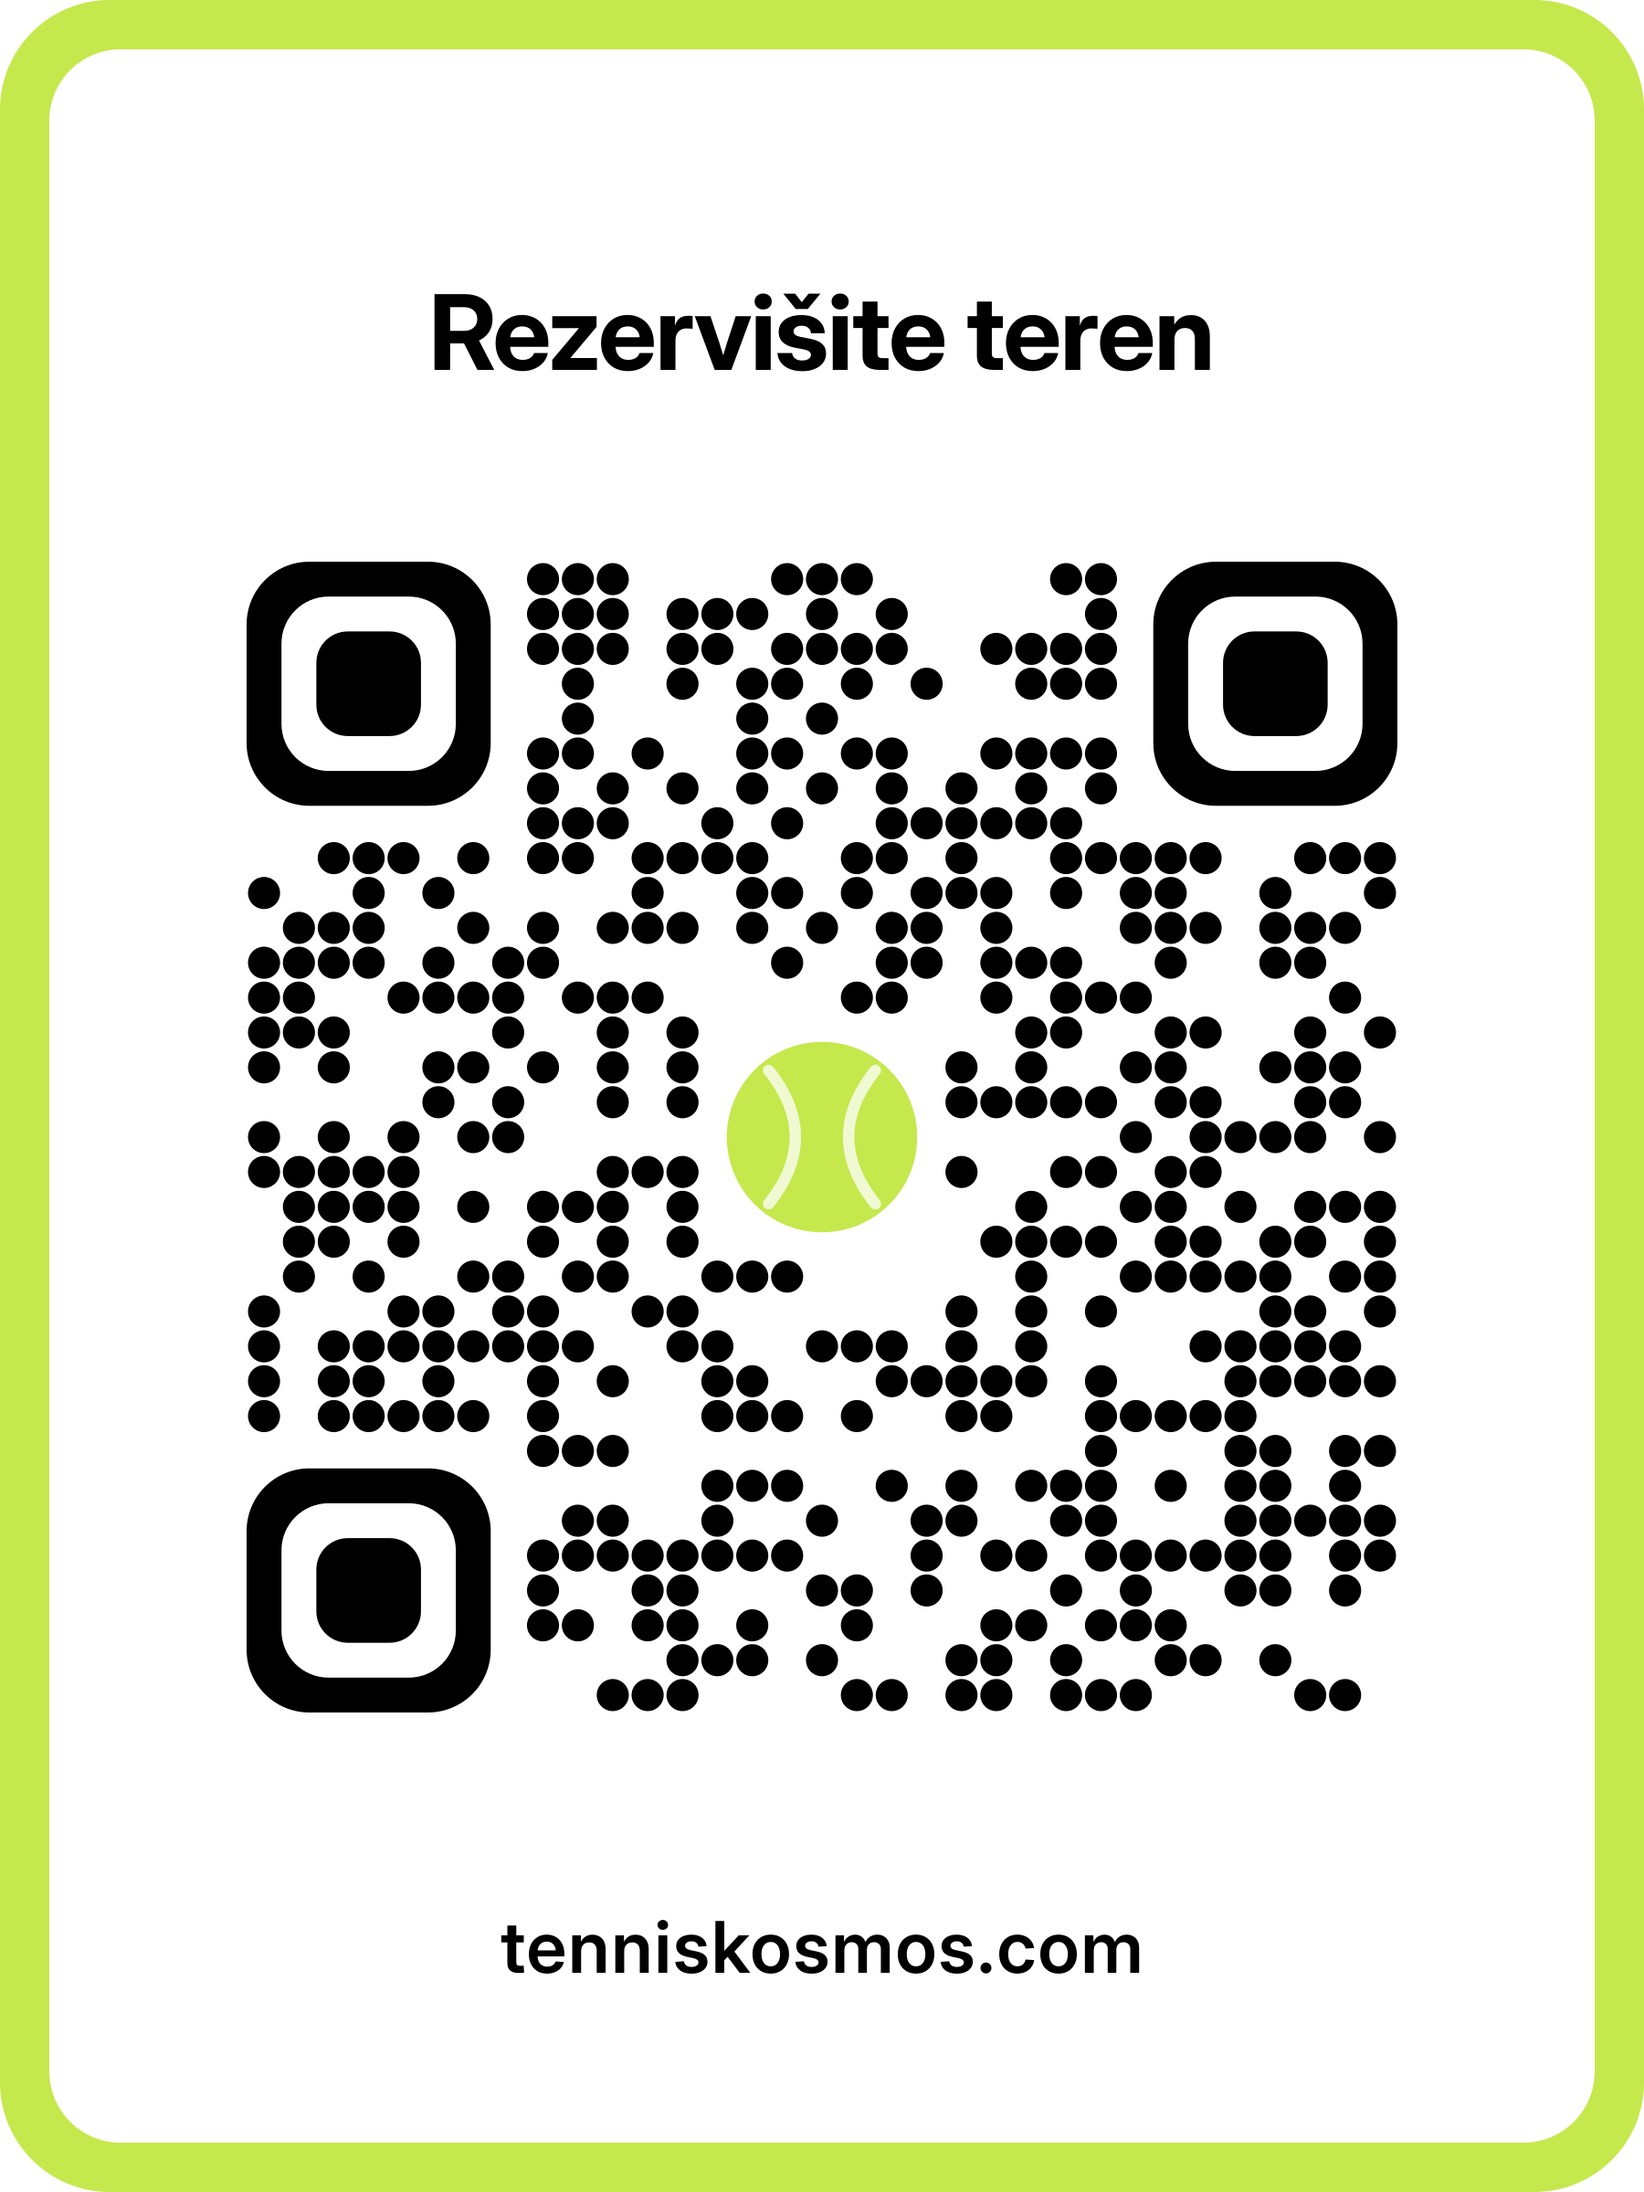
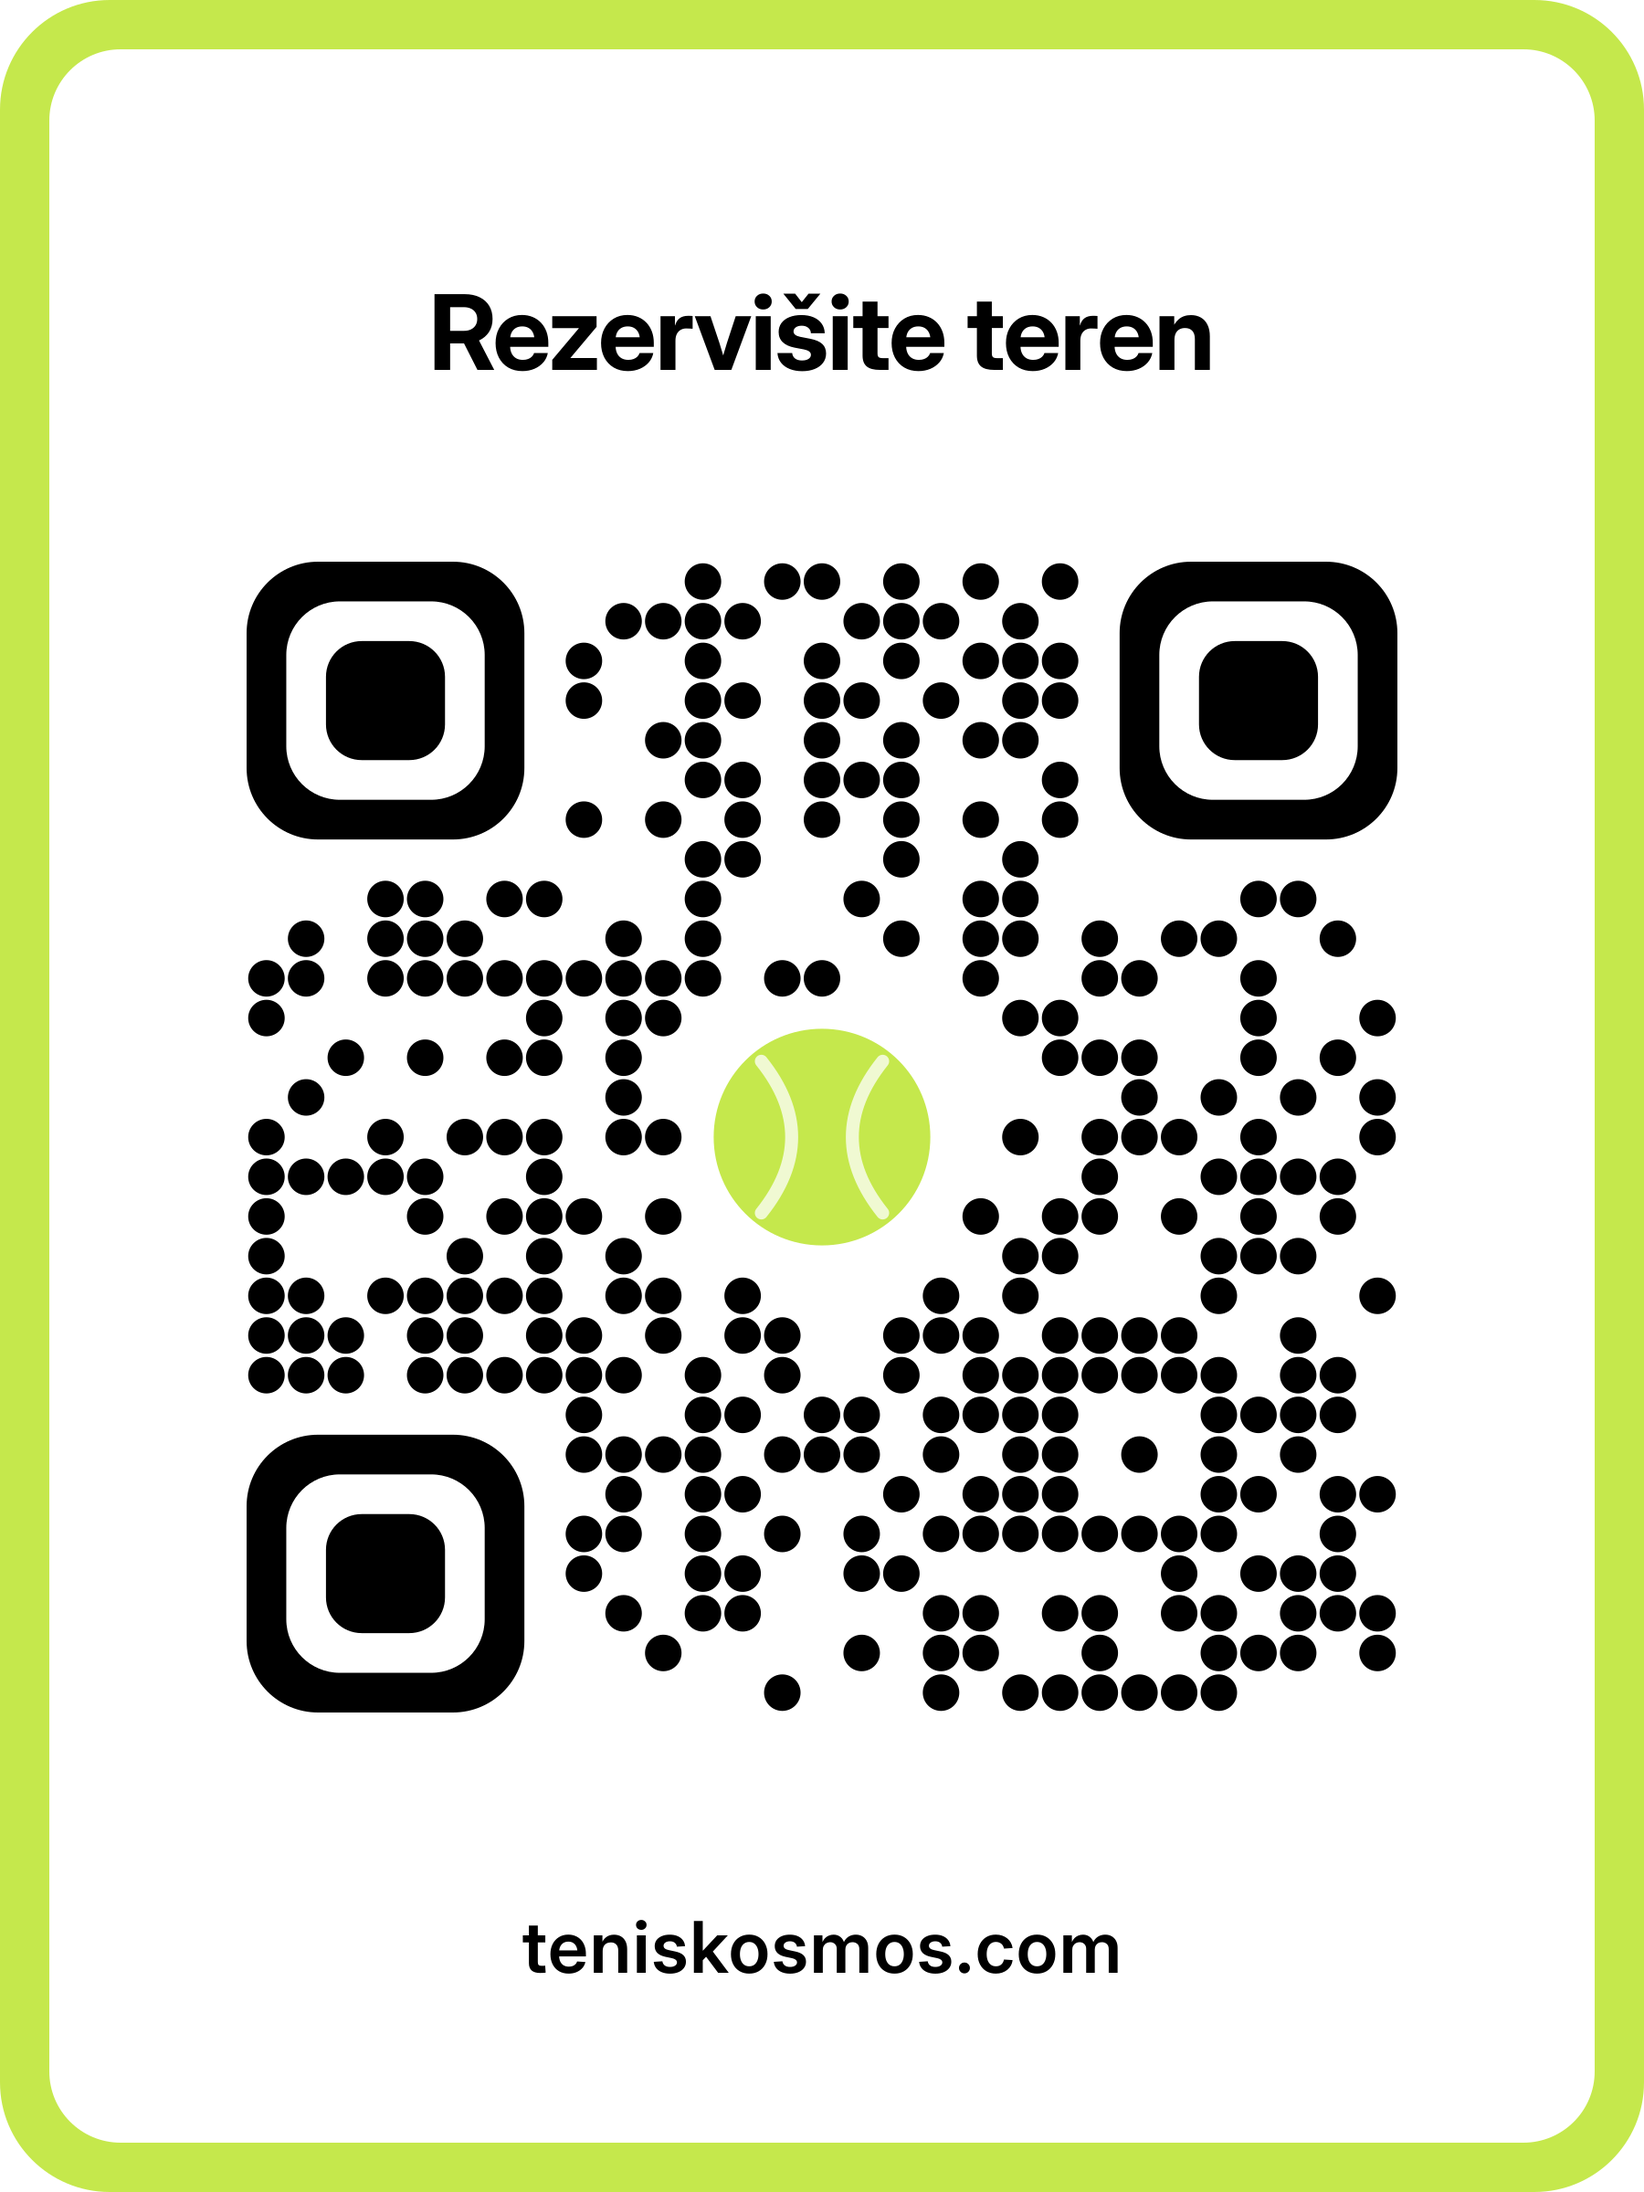
Regenerate QR poster for teniskosmos.com and commit build script
The canonical domain is teniskosmos.com (single 'n', Serbian spelling);
the previously-pushed PNG encoded the misspelling-fallback URL. Also
checks in build_qr_poster.py so future domain/wording tweaks are a
one-command regeneration instead of recreating the script each time.

Changed region(s): [[0.1244, 0.25, 0.8711, 0.7812], [0.3111, 0.875, 0.7156, 0.9062]]

diff --git a/build_qr_poster.py b/build_qr_poster.py
@@ -1,0 +1,143 @@
+#!/usr/bin/env python3
+"""Generate the printable "Rezervišite teren" QR poster.
+
+Output:  qr-option-2-yellow.png  (1800×2400, placed next to this script)
+
+Deps:    qrencode, rsvg-convert  (apt install qrencode librsvg2-bin)
+         Python 3 stdlib only.
+
+Verify scan:  zbarimg --quiet qr-option-2-yellow.png
+
+Style decisions are documented in CLAUDE.md ("Visual design rules").
+The central tennis ball uses the exact SVG the site uses in index.html.
+QR error-correction level H (30%) absorbs the center knockout.
+"""
+import re
+import subprocess
+import tempfile
+from pathlib import Path
+
+URL = "https://teniskosmos.com/"           # canonical domain (Serbian spelling, single 'n')
+URL_LABEL = "teniskosmos.com"
+HEADLINE = "Rezervišite teren"
+
+HERE = Path(__file__).resolve().parent
+OUT_PNG = HERE / "qr-option-2-yellow.png"
+
+# --- Generate raw QR SVG via qrencode ---------------------------------------
+with tempfile.TemporaryDirectory() as tmp:
+    tmp = Path(tmp)
+    raw_svg = tmp / "qr.svg"
+    subprocess.check_call(["qrencode", "-t", "SVG", "-l", "H", "-m", "0", "-o", str(raw_svg), URL])
+    src = raw_svg.read_text()
+    rects_raw = re.search(r'<g id="Pattern"[^>]*>(.*?)</g>', src, re.S).group(1)
+    GRID = int(re.search(r'viewBox="0 0 (\d+) (\d+)"', src).group(1))
+
+    # Parse module grid into a 2D bitmap
+    grid = [[0] * GRID for _ in range(GRID)]
+    for m in re.finditer(r'<rect x="(\d+)" y="(\d+)" width="1" height="1"', rects_raw):
+        x, y = int(m.group(1)), int(m.group(2))
+        grid[y][x] = 1
+
+    # --- Poster layout constants --------------------------------------------
+    W, H = 600, 800
+    QR_SIZE = 420
+    QR_X = (W - QR_SIZE) // 2
+    QR_Y = 205                          # tuned so top/bottom gaps are visually balanced
+    MODULE = QR_SIZE / GRID
+
+    BALL_MODULES = 7                    # center knockout: ~21% of grid (safe at level H)
+    BALL_PX = BALL_MODULES * MODULE
+    BALL_SIZE = BALL_PX * 0.78          # ball sits inside knockout with whitespace ring
+    CX_MOD_LO = (GRID - BALL_MODULES) // 2
+    CX_MOD_HI = CX_MOD_LO + BALL_MODULES
+    CX = QR_X + QR_SIZE / 2
+    CY = QR_Y + QR_SIZE / 2
+
+    def in_finder(r, c):
+        """True if module (r,c) belongs to one of the three corner finder patterns."""
+        return (r < 7 and c < 7) or (r < 7 and c >= GRID - 7) or (r >= GRID - 7 and c < 7)
+
+    def in_knockout(r, c):
+        return CX_MOD_LO <= c < CX_MOD_HI and CX_MOD_LO <= r < CX_MOD_HI
+
+    # Data modules → dots (skip finders and center knockout)
+    dots = []
+    dot_r = MODULE * 0.46
+    for r in range(GRID):
+        for c in range(GRID):
+            if grid[r][c] and not in_finder(r, c) and not in_knockout(r, c):
+                cx = QR_X + (c + 0.5) * MODULE
+                cy = QR_Y + (r + 0.5) * MODULE
+                dots.append(f'<circle cx="{cx:.3f}" cy="{cy:.3f}" r="{dot_r:.3f}"/>')
+
+    def finder(row, col):
+        """Rounded-square finder pattern (7×7 modules)."""
+        x0 = QR_X + col * MODULE
+        y0 = QR_Y + row * MODULE
+        r_out = MODULE * 1.8
+        r_in = MODULE * 0.9
+        return f'''    <g>
+      <rect x="{x0:.3f}" y="{y0:.3f}" width="{7*MODULE:.3f}" height="{7*MODULE:.3f}" rx="{r_out:.3f}" ry="{r_out:.3f}" fill="#000000"/>
+      <rect x="{x0+MODULE:.3f}" y="{y0+MODULE:.3f}" width="{5*MODULE:.3f}" height="{5*MODULE:.3f}" rx="{r_out*0.75:.3f}" ry="{r_out*0.75:.3f}" fill="#ffffff"/>
+      <rect x="{x0+2*MODULE:.3f}" y="{y0+2*MODULE:.3f}" width="{3*MODULE:.3f}" height="{3*MODULE:.3f}" rx="{r_in:.3f}" ry="{r_in:.3f}" fill="#000000"/>
+    </g>'''
+
+    finders = "\n".join([finder(0, 0), finder(0, GRID - 7), finder(GRID - 7, 0)])
+
+    def tennis_ball(cx, cy, size):
+        """The site's tennis ball (index.html): #c5e84c circle + two white seams."""
+        r = size / 2
+        def p(x, y):
+            return (cx + (x - 50) / 50 * r, cy + (y - 50) / 50 * r)
+        p1 = [p(22, 15), p(50, 50), p(22, 85)]
+        p2 = [p(78, 15), p(50, 50), p(78, 85)]
+        sw = size * 0.06
+        return (
+            f'<circle cx="{cx}" cy="{cy}" r="{r:.3f}" fill="#c5e84c"/>\n'
+            f'  <path d="M {p1[0][0]:.2f} {p1[0][1]:.2f} Q {p1[1][0]:.2f} {p1[1][1]:.2f}, {p1[2][0]:.2f} {p1[2][1]:.2f}" '
+            f'stroke="white" stroke-width="{sw:.2f}" fill="none" opacity="0.75" stroke-linecap="round"/>\n'
+            f'  <path d="M {p2[0][0]:.2f} {p2[0][1]:.2f} Q {p2[1][0]:.2f} {p2[1][1]:.2f}, {p2[2][0]:.2f} {p2[2][1]:.2f}" '
+            f'stroke="white" stroke-width="{sw:.2f}" fill="none" opacity="0.75" stroke-linecap="round"/>'
+        )
+
+    FONT = "system-ui, -apple-system, 'Segoe UI', Roboto, sans-serif"
+    dot_block = "\n    ".join(dots)
+
+    svg = f'''<?xml version="1.0" encoding="UTF-8" standalone="yes"?>
+<svg xmlns="http://www.w3.org/2000/svg" width="{W}" height="{H}" viewBox="0 0 {W} {H}" font-family="{FONT}">
+  <!-- Yellow rounded frame with white inner panel -->
+  <rect x="0" y="0" width="{W}" height="{H}" rx="40" ry="40" fill="#c5e84c"/>
+  <rect x="18" y="18" width="{W-36}" height="{H-36}" rx="26" ry="26" fill="#ffffff"/>
+
+  <!-- Headline -->
+  <text x="{W/2}" y="135" text-anchor="middle" font-size="38" font-weight="700"
+        fill="#000000" letter-spacing="-0.5">{HEADLINE}</text>
+
+  <!-- QR data dots -->
+  <g fill="#000000">
+    {dot_block}
+  </g>
+
+  <!-- QR rounded finder patterns -->
+{finders}
+
+  <!-- Center knockout + tennis ball -->
+  <rect x="{CX - BALL_PX/2:.3f}" y="{CY - BALL_PX/2:.3f}" width="{BALL_PX:.3f}" height="{BALL_PX:.3f}" fill="#ffffff"/>
+  {tennis_ball(CX, CY, BALL_SIZE)}
+
+  <!-- URL label -->
+  <text x="{W/2}" y="{H-80}" text-anchor="middle" font-size="26" font-weight="600"
+        fill="#000000" letter-spacing="0.5">{URL_LABEL}</text>
+</svg>
+'''
+
+    poster_svg = tmp / "poster.svg"
+    poster_svg.write_text(svg)
+
+    # --- Rasterise to 1800×2400 PNG -----------------------------------------
+    subprocess.check_call([
+        "rsvg-convert", "-w", "1800", "-h", "2400", str(poster_svg), "-o", str(OUT_PNG),
+    ])
+
+print(f"wrote {OUT_PNG.relative_to(HERE)} ({OUT_PNG.stat().st_size:,} bytes)")
